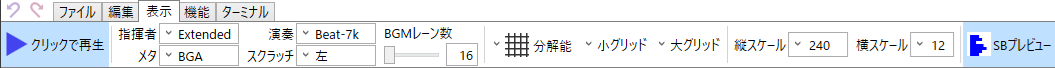
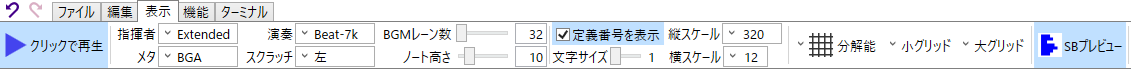
v0.7.43

diff --git a/docs/bms.html b/docs/bms.html
@@ -129,20 +129,23 @@
                         1054, 22,112, 45, bms/preview_setting.html;
                     "></div>
                     <div class="image-map" src="img/window_bms_tab_view.png" maps="
-                          1,  0, 25, 21, common/undo.html;
-                         26,  0, 25, 21, common/redo.html;
-                          1, 22,108, 45, bms/playByClick.html;
-                        114, 22,129, 23, bms/lane_conductor.html;
-                        114, 45,129, 22, bms/lane_bga.html;
-                        243, 22,137, 23, bms/lane_key.html;
-                        243, 45,137, 22, bms/lane_scratch.html;
-                        380, 22,102, 45, bms/lane_bgm.html;
-                        487, 22, 92, 45, bms/grid_quantize.html;
-                        579, 22, 73, 45, bms/grid_small.html;
-                        652, 22, 73, 45, bms/grid_large.html;
-                        730, 22,122, 45, bms/scale_y.html;
-                        852, 22,106, 45, bms/scale_x.html;
-                        963, 22, 92, 45, bms/scrollbar.html;
+                           1,  0, 25, 21, common/undo.html;
+                          26,  0, 25, 21, common/redo.html;
+                           1, 22,108, 46, bms/playByClick.html;
+                         114, 22,129, 23, bms/lane_conductor.html;
+                         114, 45,129, 23, bms/lane_bga.html;
+                         243, 22,137, 23, bms/lane_key.html;
+                         243, 45,137, 23, bms/lane_scratch.html;
+                         380, 22,167, 23, bms/lane_bgm.html;
+                         380, 45,167, 23, bms/view_headHeight.html;
+                         552, 22,112, 23, bms/view_drawText.html;
+                         552, 45,112, 23, bms/view_textScale.html;
+                         664, 22,122, 23, bms/scale_y.html;
+                         664, 45,122, 23, bms/scale_x.html;
+                         791, 22, 92, 46, bms/grid_quantize.html;
+                         883, 22, 73, 46, bms/grid_small.html;
+                         956, 22, 73, 46, bms/grid_large.html;
+                        1034, 22, 92, 46, bms/scrollbar.html;
                     "></div>
                     <div class="image-map" src="img/window_bms_tab_function.png" maps="
                           1,  0, 25, 21, common/undo.html;

diff --git a/docs/history.html b/docs/history.html
@@ -10,6 +10,36 @@
         <div class="content">
             <ul>
                 <li>
+                    <details id="0_7_43">
+                        <summary class="a-like">Version 0.7.43 (2025/12/03)</summary>
+                        <ul>
+                            <li>
+                                仕様変更
+                                <ul>
+                                    <li>
+                                        各ウィンドウ上部のメニュータブにおいて、ウィンドウの幅が狭い場合はアイコンがある程度改行されるようにしました。
+                                    </li>
+                                    <li>
+                                        <a href="bms.html">BMSモード</a>の譜面表示エリアにおいて、以下のように変更しました。
+                                        <ul>
+                                            <li>
+                                                描画されるノートの高さを変更できるようにしました。
+                                            </li>
+                                            <li>
+                                                ノートの上の定義番号を非表示化できるようにしました。
+                                            </li>
+                                            <li>
+                                                ノートの上に描画される文字のサイズを変更できるようにしました。
+                                            </li>
+                                        </ul>
+                                    </li>
+                                </ul>
+                            </li>
+                        </ul>
+                        <br>
+                    </details>
+                </li>
+                <li>
                     <details id="0_7_42">
                         <summary class="a-like">Version 0.7.42 (2025/11/06)</summary>
                         <ul>

diff --git a/docs/index.html b/docs/index.html
@@ -11,7 +11,7 @@
             <div class="stack">
                 <a href="https://github.com/Kuroki-Narumi/BmsMaker3-Manual/releases" target="_blank">
                     <img src="img/logo.png" style="max-width: 100%;"/><br>
-                    Version 0.7.42<br>
+                    Version 0.7.43<br>
                 </a>
                 オールインワン型BMS制作補助ツール<br>
             </div>

diff --git a/docs/bms/view_drawText.html b/docs/bms/view_drawText.html
@@ -1,0 +1,11 @@
+<h3>定義番号を表示</h3>
+<ul>
+    <li>
+        チェックした場合、譜面表示エリアのノートの上に<br>
+        そのノートが参照している定義番号を表示します。
+    </li>
+    <li>
+        <b>指揮者レーン</b>のノートの値(テンポなど)は、<br>
+        この設定に関わらず常に表示されます。
+    </li>
+</ul>

diff --git a/docs/bms/view_textScale.html b/docs/bms/view_textScale.html
@@ -1,0 +1,9 @@
+<h3>文字サイズ</h3>
+<ul>
+    <li>
+        ノートの上に表示する文字のサイズを指定します。
+    </li>
+    <li>
+        ヘッダー部分の文字サイズは<span class="script">1</span>相当で固定です。
+    </li>
+</ul>

diff --git a/docs/bms/view_headHeight.html b/docs/bms/view_headHeight.html
@@ -1,0 +1,6 @@
+<h3>ノート高さ</h3>
+<ul>
+    <li>
+        譜面表示エリアに表示するノートの高さを指定します。
+    </li>
+</ul>
